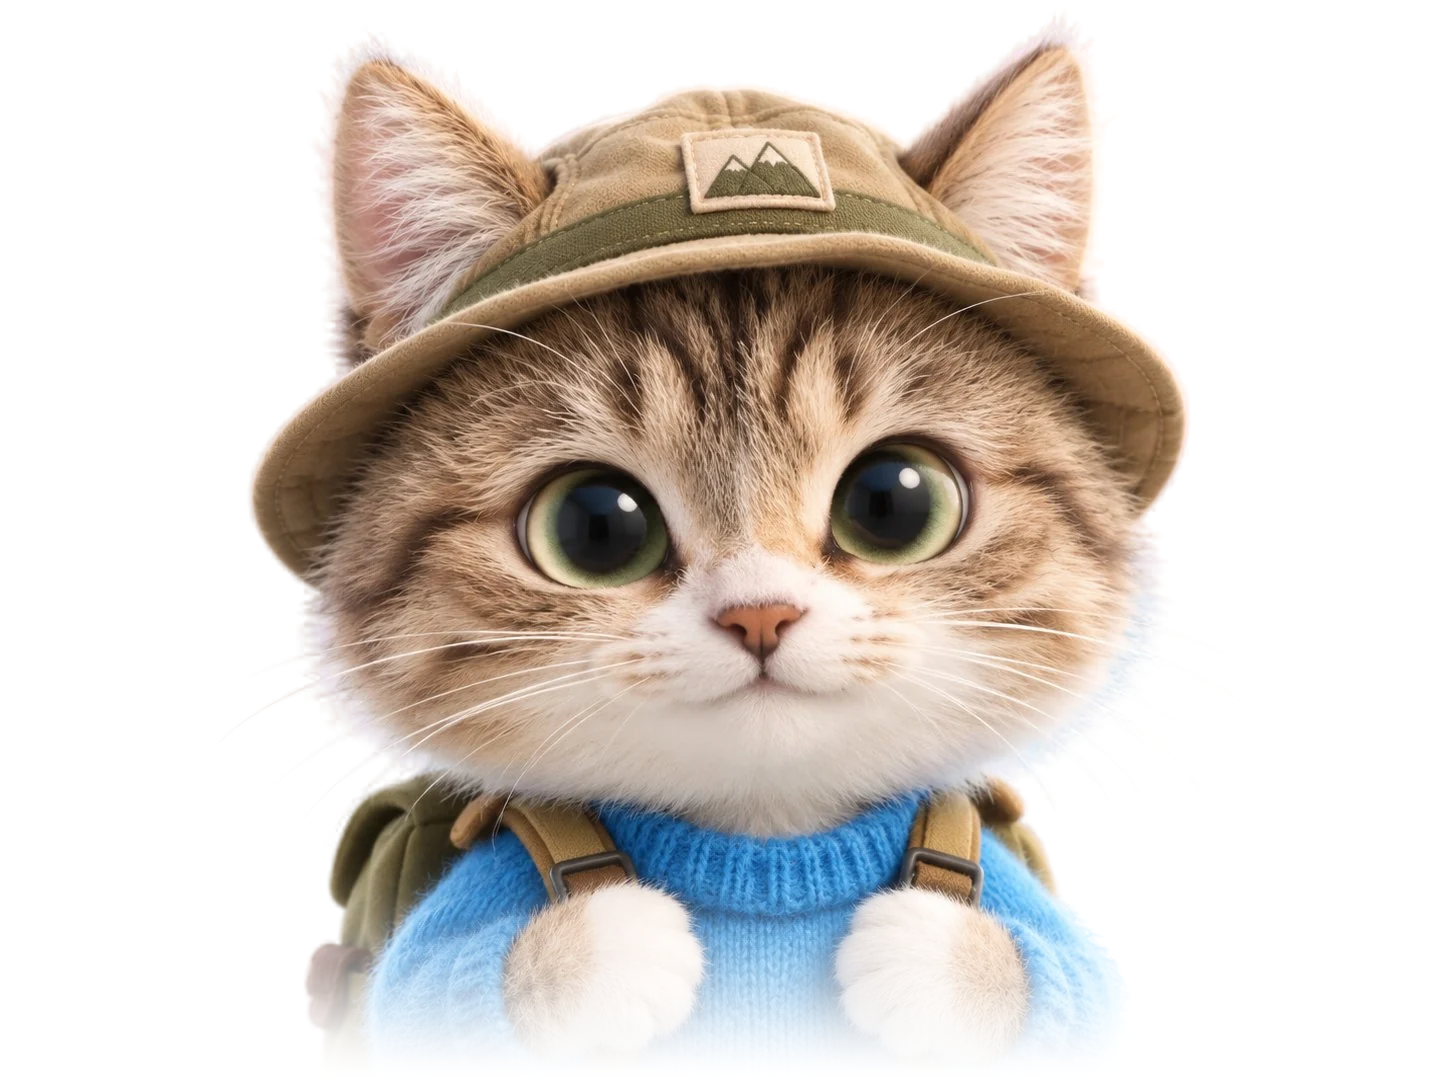
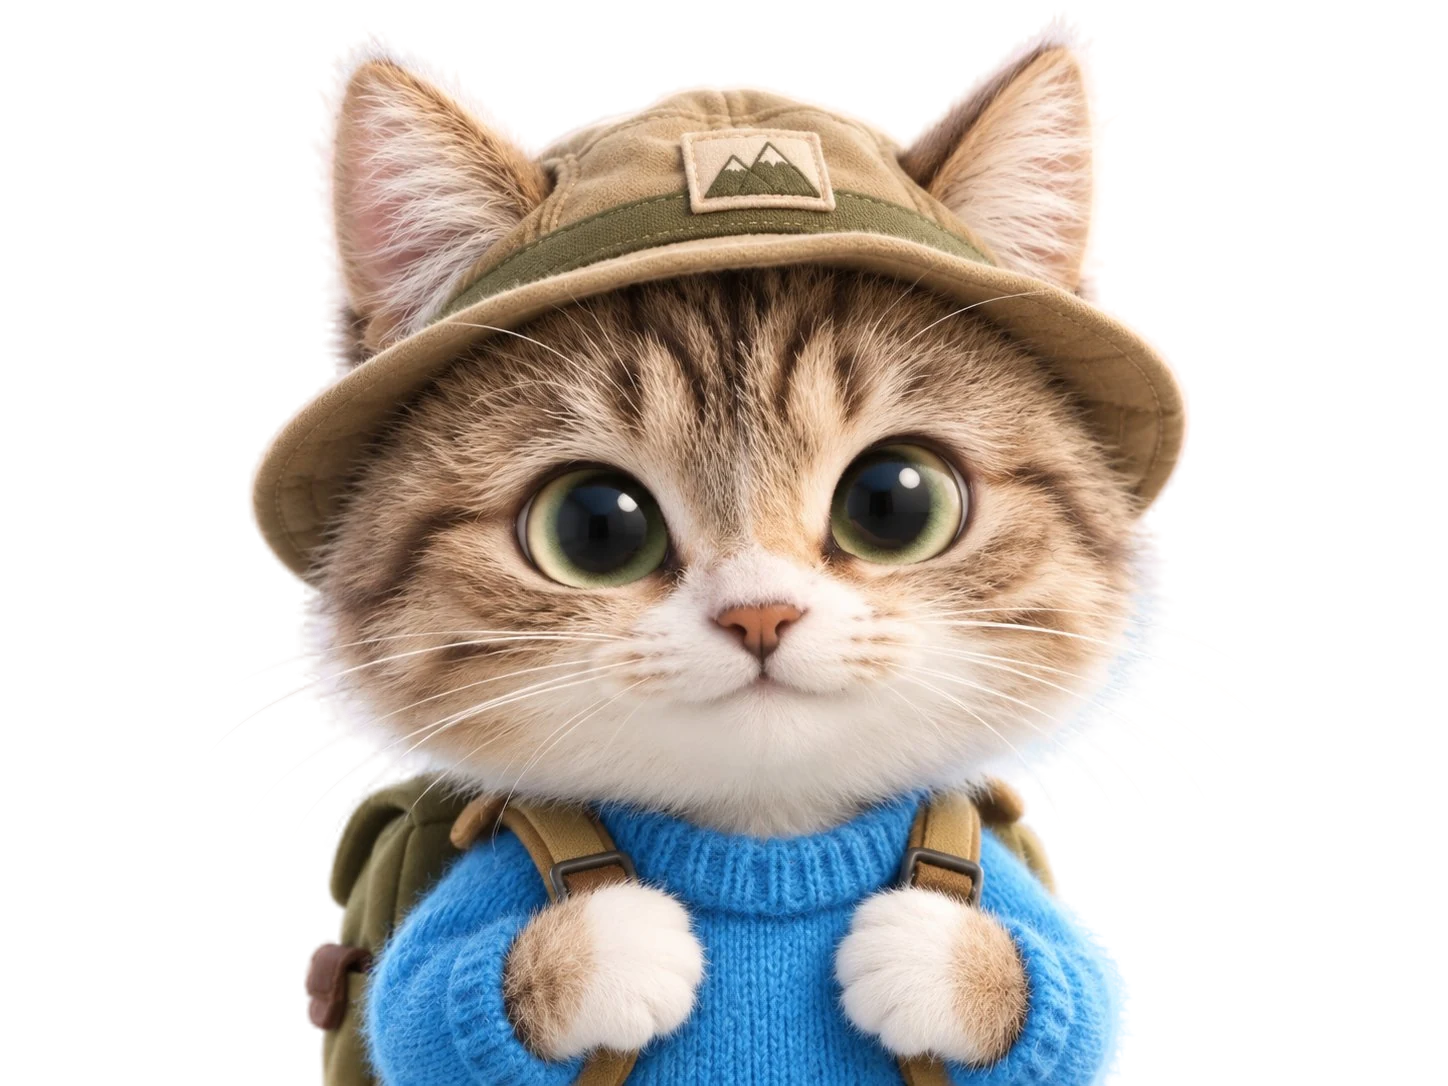
Landing: solid cat rising from the bottom, trails above her, explore wording
Claude-Session: https://claude.ai/code/session_01HhXDum6sCN2W5WxJh7z8fR

Changed region(s): [[0.1865, 0.8204, 0.7769, 1.0]]

diff --git a/index.html b/index.html
@@ -33,8 +33,7 @@ a{color:inherit}
 .mk.flip .chip{left:auto;right:16px}
 .mk:focus-visible .dot{outline:3px solid var(--tB);outline-offset:3px}
 /* hero cat */
-#hero{position:fixed;z-index:3;pointer-events:none;height:min(94vh,74vw*.75);aspect-ratio:1448/1086;left:50%;bottom:0;transform:translateX(-50%)}
-#hero::before{content:"";position:absolute;left:18%;right:18%;top:6%;bottom:-6%;border-radius:50%;background:radial-gradient(closest-side,rgba(238,244,241,.92),rgba(238,244,241,.55) 55%,rgba(238,244,241,0));z-index:-1}
+#hero{position:fixed;z-index:3;pointer-events:none;height:min(62vh,62vw*.75);aspect-ratio:1448/1086;left:50%;bottom:0;transform:translateX(-50%)}
 #kit{position:absolute;inset:0}
 #kit img,#kit svg{position:absolute;inset:0;width:100%;height:100%;display:block}
 #kit img{filter:drop-shadow(0 18px 30px rgba(29,43,38,.18))}
@@ -72,7 +71,7 @@ header{position:fixed;left:32px;top:26px;z-index:5;max-width:420px}
 #card .go{margin-top:14px;display:flex;align-items:center;justify-content:center;gap:8px;min-height:46px;border-radius:23px;background:var(--ink);color:#fff;text-decoration:none;font-weight:500;font-size:14.5px;transition:transform .25s}
 #card .go:hover{transform:translateY(-2px)}
 @media (max-width:820px){
-  #hero{height:min(46vh,94vw*.75);bottom:auto;top:12vh}
+  #hero{height:min(48vh,104vw*.75)}
   header{left:16px;top:14px;right:16px}.word{font-size:32px}.lede{display:none}
   #legend{display:none}#index{display:none}
   #scale{bottom:14px;max-width:calc(100vw - 24px);overflow-x:auto}#scale button{padding:0 10px;font-size:10px;white-space:nowrap;letter-spacing:.04em}
@@ -82,7 +81,7 @@ header{position:fixed;left:32px;top:26px;z-index:5;max-width:420px}
 </style>
 </head>
 <body>
-<svg id="map" role="img" aria-label="Key plan map of Grace Trail sheets"><g id="cam">
+<svg id="map" role="img" aria-label="Map of Grace Trail trails"><g id="cam">
   <path id="g-nation" class="vns" fill="#E3EEE8" stroke="none"></path>
   <path id="g-ca" class="vns" fill="#D6E9DF" stroke="none"></path>
   <path id="g-la" class="vns" fill="#C8E1D4" stroke="#7FA899" stroke-width="1"></path>
@@ -91,7 +90,7 @@ header{position:fixed;left:32px;top:26px;z-index:5;max-width:420px}
   <path id="g-nation2" class="vns" fill="none" stroke="#5E8C7E" stroke-width="1.4"></path>
   <defs><radialGradient id="fd" cx=".5" cy=".5" r=".5"><stop offset=".72" stop-color="#fff"/><stop offset="1" stop-color="#000"/></radialGradient><mask id="fm" maskUnits="userSpaceOnUse" x="0" y="0" width="1850" height="1650"><rect width="1850" height="1650" fill="url(#fd)"/></mask></defs>
   <g id="kp"><image href="keyplan.svg" x="0" y="0" width="1850" height="1650" preserveAspectRatio="none" mask="url(#fm)"></image>
-    <g id="rects"></g><g id="trails"></g></g>
+    <g id="rects" style="display:none"></g><g id="trails"></g></g>
 </g></svg>
 <div id="marks"></div>
 
@@ -119,12 +118,12 @@ header{position:fixed;left:32px;top:26px;z-index:5;max-width:420px}
 <header>
   <h1 class="word">Grace<br>Trail</h1>
   <p class="sub">Hikes, drawn as maps</p>
-  <p class="lede">Every hike is a sheet: real terrain, numbered stops, and the animals and flowers along the way. She keeps an eye on the trails around her. Pick one to open its sheet.</p>
+  <p class="lede">Real terrain, numbered stops, and the animals and flowers waiting along the way. She&rsquo;s already looking up at where to go next. Pick a trail and go explore.</p>
 </header>
-<div id="legend"><b id="lv">San Gabriel Valley</b><br><span id="cnt">2 sheets</span> · more in survey</div>
+<div id="legend"><b id="lv">San Gabriel Valley</b><br><span id="cnt">2 trails</span> to explore · more on the way</div>
 
-<nav id="index" class="glass" aria-label="Sheets">
-  <h2><span>Sheet index</span><span>No.</span></h2>
+<nav id="index" class="glass" aria-label="Trails">
+  <h2><span>Trails to explore</span><span>No.</span></h2>
   <ul id="list"></ul>
   <div class="soon">Next: the rest of Los Angeles, then California.</div>
 </nav>
@@ -164,7 +163,7 @@ SHEETS.forEach(function(s){var r=s.rect;
 // markers + index
 var marks=$('marks'),list=$('list');
 SHEETS.forEach(function(s){
-  var b=document.createElement('button');b.className='mk';b.setAttribute('aria-label','Sheet '+s.id+', '+s.name);
+  var b=document.createElement('button');b.className='mk';b.setAttribute('aria-label','Explore '+s.name);
   b.innerHTML='<span class="dot"></span><span class="chip glass"><span class="no">'+s.id+'</span>'+s.name+'</span>';
   b.addEventListener('click',function(e){e.stopPropagation();openCard(s)});marks.appendChild(b);s.mk=b;s.chip=b.querySelector('.chip');
   var li=document.createElement('li');li.innerHTML='<button><span class="no">'+s.id+'</span><span><span class="nm">'+s.name+'</span><br><span class="lo">'+s.where+'</span></span></button>';
@@ -183,7 +182,7 @@ function fit(l){
   R.pts.forEach(function(p){var dx=p[0]-cx,dy=p[1]-cy;xs.push(dx*ca-dy*sa);ys.push(dx*sa+dy*ca)});
   var bw=Math.max.apply(0,xs)-Math.min.apply(0,xs),bh=Math.max.apply(0,ys)-Math.min.apply(0,ys);
   var s,sx,sy;
-  if(l==='sgv'){var boxW=mobile?W*.98:W*.88,boxH=mobile?H*.5:H*.7;s=Math.min(boxW/bw,boxH/bh);sx=W*.5;sy=mobile?H*.7:H*.4;}
+  if(l==='sgv'){var boxW=mobile?W*1.05:W*.64,boxH=mobile?H*.34:H*.4;s=Math.min(boxW/bw,boxH/bh);sx=W*.5;sy=mobile?H*.3:H*.27;}
   else{ // zoomed out: keep the sheets' dot clear of the cat, map spreads behind her
     var boxW2=mobile?W*.9:(l==='us'?W*.23:W*.44),boxH2=mobile?H*.42:H*.72;s=Math.min(boxW2/bw,boxH2/bh);
     var P=SHEETS[0].p,ox=(P[0]-cx)*s,oy=(P[1]-cy)*s,rx=ox*ca-oy*sa,ry=ox*sa+oy*ca;
@@ -218,7 +217,7 @@ function apply(v){
     sh.mk.style.transform='translate('+x.toFixed(1)+'px,'+y.toFixed(1)+'px)';sh.mk.classList.toggle('flip',mobile?x>W-230:(x<W*.5&&x>300)||x>W-250);
     sh.chip.style.opacity=dotOn?'0':'1';
     sh.x=x;sh.y=y;});
-  if(dotOn){SHEETS[0].chip.innerHTML='<span class="no">2</span>Sheets · San Gabriel Valley';SHEETS[0].chip.style.opacity='1';SHEETS[0].clustered=true;}
+  if(dotOn){SHEETS[0].chip.innerHTML='<span class="no">2</span>Trails to explore · San Gabriel Valley';SHEETS[0].chip.style.opacity='1';SHEETS[0].clustered=true;}
   else if(SHEETS[0].clustered){SHEETS[0].chip.innerHTML='<span class="no">01</span>'+SHEETS[0].name;SHEETS[0].clustered=false;}
   $('north').style.transform='rotate('+v.rot+'deg)';
   if(cardFor)placeCard();
@@ -246,7 +245,7 @@ function loop(now){
 var card=$('card'),cardFor=null;
 function openCard(s){if(s.clustered&&fit(view.level).s<fit('la').s*0.6){go('sgv');return;}
   cardFor=s;var tr=s.trails.map(function(t){return '<li><span class="t" style="background:'+TC[t[0]]+'">'+t[0]+'</span>'+t[1]+'<span class="mi">'+t[2]+'</span></li>'}).join('');
-  card.innerHTML='<button class="x" aria-label="Close">×</button><span class="no">Sheet '+s.id+'</span><h3>'+s.name+'</h3><div class="where">'+s.where+' · high point '+s.high+'</div><ul>'+tr+'</ul><a class="go" href="'+s.href+'">Open sheet <svg width="16" height="16" viewBox="0 0 16 16" aria-hidden="true"><path d="M3 8h10M9 4l4 4-4 4" fill="none" stroke="#fff" stroke-width="1.6"/></svg></a>';
+  card.innerHTML='<button class="x" aria-label="Close">×</button><span class="no">Trail '+s.id+'</span><h3>'+s.name+'</h3><div class="where">'+s.where+' · high point '+s.high+'</div><ul>'+tr+'</ul><a class="go" href="'+s.href+'">Explore this trail <svg width="16" height="16" viewBox="0 0 16 16" aria-hidden="true"><path d="M3 8h10M9 4l4 4-4 4" fill="none" stroke="#fff" stroke-width="1.6"/></svg></a>';
   card.querySelector('.x').onclick=closeCard;card.classList.add('on');placeCard();}
 function closeCard(){cardFor=null;card.classList.remove('on')}
 function placeCard(){var s=cardFor;if(!s)return;var cw=card.offsetWidth,ch=card.offsetHeight;
@@ -262,7 +261,7 @@ addEventListener('keydown',function(e){if(e.key==='Escape')closeCard()});
     var lr=hero.getBoundingClientRect();var inside=Math.hypot((px-(lr.left+lr.width*.517))/(lr.width*.3),(py-(lr.top+lr.height*.47))/(lr.height*.42))<1;dilT=inside?57:50;}
   addEventListener('pointermove',function(e){aim(e.clientX,e.clientY)},{passive:true});
   addEventListener('pointerdown',function(e){aim(e.clientX,e.clientY)},{passive:true});
-  (function tick(now){if(!reduce&&now-last>idleMs){var t=(now-t0)/1000;tgt.x=Math.sin(t*.6)*max*.8;tgt.y=Math.sin(t*1.2)*max*.3;dilT=50;}
+  (function tick(now){if(!reduce&&now-last>idleMs){var t=(now-t0)/1000;tgt.x=Math.sin(t*.45)*max*.75;tgt.y=-max*(.8+Math.sin(t*.9)*.12);dilT=52;}
     cur.x+=(tgt.x-cur.x)*.16;cur.y+=(tgt.y-cur.y)*.16;dil+=(dilT-dil)*.12;
     balls.forEach(function(b){b.setAttribute('transform','translate('+cur.x.toFixed(2)+' '+cur.y.toFixed(2)+')')});
     pupils.forEach(function(p){p.setAttribute('r',dil.toFixed(2))});requestAnimationFrame(tick);})(performance.now());

diff --git a/hidden-valley/index.html b/hidden-valley/index.html
@@ -155,7 +155,7 @@ button{font:inherit;color:inherit}
   </div>
   <aside class="panel" id="panel">
     <div class="head">
-      <a class="eyebrow" href="../" style="text-decoration:none;color:inherit">← Grace Trail · Sheet 02</a>
+      <a class="eyebrow" href="../" style="text-decoration:none;color:inherit">← Grace Trail · Explore more trails</a>
       <h1>Hidden Valley &amp; Cloverleaf Canyon</h1>
     </div>
     <div class="switch" id="switch" role="group" aria-label="Choose a view"></div>
@@ -207,7 +207,7 @@ const STOPS=[{"id":"1","trails":["A","B","C"],"x":0,"n":0,"name":"Cloverleaf Tra
  {"id":"C1","trails":["C"],"x":2379,"n":3953,"name":"Clamshell Ridge","desc":"The ridge path climbs steadily through chaparral above Clamshell Canyon."},
  {"id":"C2","trails":["C"],"x":3690,"n":5154,"name":"Four Palms","desc":"Four palm trees stand on the ridgetop at about 2,100 ft, the high point of the hike, where the Four Palms Trail begins."},
  {"id":"C3","trails":["C"],"x":5102,"n":3775,"name":"Canyon Overlook","desc":"A short spur to a view down into Monrovia Canyon Park."},
- {"id":"C4","trails":["C"],"x":5623,"n":3050,"name":"Bill Cull Trail","desc":"The Four Palms Trail meets the Bill Cull Trail in Monrovia Canyon Park (Sheet 01). The Nature Center lot is a short walk below."}];
+ {"id":"C4","trails":["C"],"x":5623,"n":3050,"name":"Bill Cull Trail","desc":"The Four Palms Trail meets the Bill Cull Trail in Monrovia Canyon Park. The Nature Center lot is a short walk below."}];
 const ORDER={A:["1","2","A1","A2"],B:["1","2","3","4","B1","B2","B3"],C:["1","2","3","4","C1","C2","C3","C4"]};
 const SPECIES={
  fuchsia:{name:"California fuchsia",latin:"Epilobium canum",color:"#E2412B",shape:"tube",bloom:[8,9,10,11],sum:"Scarlet tube flowers on rocky banks, a favorite of hummingbirds. It blooms late, when the rest of the hillside has dried out.",rule:(d,e,g,s)=>d>90&&d<800&&g>0.2},

diff --git a/monrovia-canyon/index.html b/monrovia-canyon/index.html
@@ -155,7 +155,7 @@ button{font:inherit;color:inherit}
   </div>
   <aside class="panel" id="panel">
     <div class="head">
-      <a class="eyebrow" href="../" style="text-decoration:none;color:inherit">← Grace Trail · Sheet 01</a>
+      <a class="eyebrow" href="../" style="text-decoration:none;color:inherit">← Grace Trail · Explore more trails</a>
       <h1>Monrovia Canyon Park</h1>
     </div>
     <div class="switch" id="switch" role="group" aria-label="Choose a view"></div>
